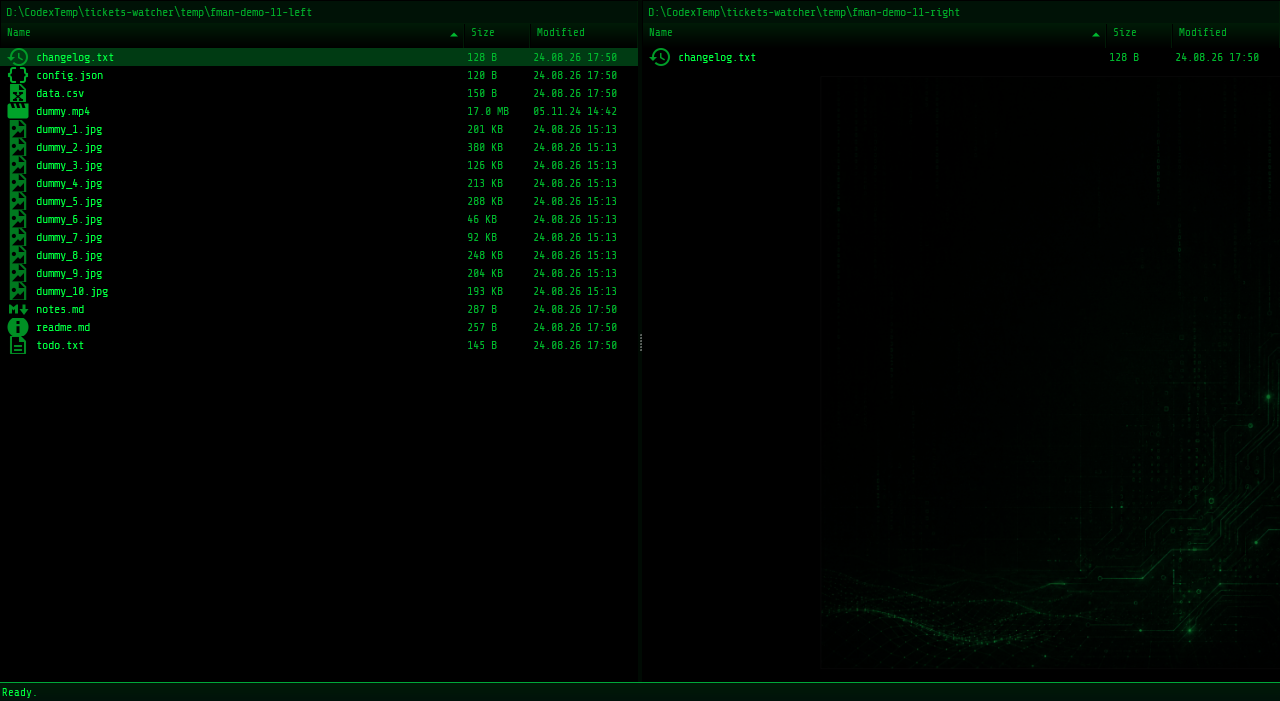
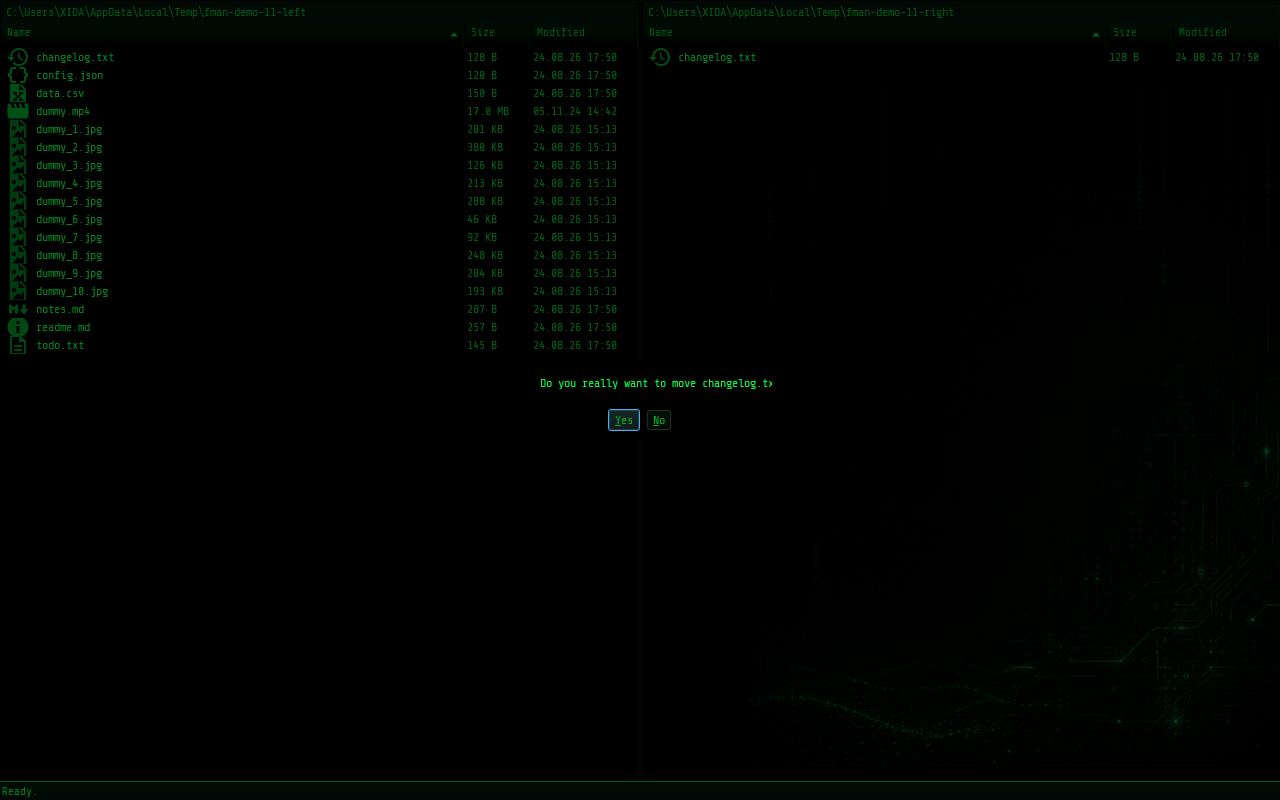
FIX (demos): open frameless dialogs through the command palette
Recreating the native window loses pane focus, so the F5 and F8 shortcuts no longer opened the prompts deterministically. Use the palette commands instead and refresh the affected dialog stills.

diff --git a/src/main/python/fman/impl/demo_scripts_dialogs.py b/src/main/python/fman/impl/demo_scripts_dialogs.py
@@ -24,10 +24,14 @@ DIALOG_CLIPS = {
 			PressKey('Escape'), Pause(1.2),
 			PressKey('Ctrl+Shift+P'), Pause(0.6),
 			Command('toggle title bar'), Pause(1.5),
-			PressKey('F5'), Pause(1.8),
+			# Recreating the native window loses pane focus. Use the palette's
+			# commands so the frameless dialogs still open deterministically.
+			PressKey('Ctrl+Shift+P'), Pause(0.6),
+			Command('copy'), Pause(1.8),
 			Screenshot('dialog-copy-prompt-no-title-bar'),
 			PressKey('Escape'), Pause(1.2),
-			PressKey('F8'), Pause(1.5),
+			PressKey('Ctrl+Shift+P'), Pause(0.6),
+			Command('delete'), Pause(1.5),
 			Screenshot('dialog-delete-confirm-no-title-bar'),
 			PressKey('Escape'), Pause(1.2),
 			PressKey('Ctrl+Shift+P'), Pause(0.6),

diff --git a/src/unittest/python/fman_unittest/impl/test_demo_setup.py b/src/unittest/python/fman_unittest/impl/test_demo_setup.py
@@ -74,6 +74,16 @@ class DemoSetupTest(unittest.TestCase):
 				'dialog-delete-confirm-no-title-bar',
 			],
 		)
+		command_lines = [
+			step.line for step in demo.steps
+			if step.__class__.__name__ == 'Command'
+		]
+		self.assertEqual(
+			command_lines,
+			[
+				'toggle title bar', 'copy', 'delete', 'toggle title bar',
+			],
+		)
 
 
 if __name__ == '__main__':
